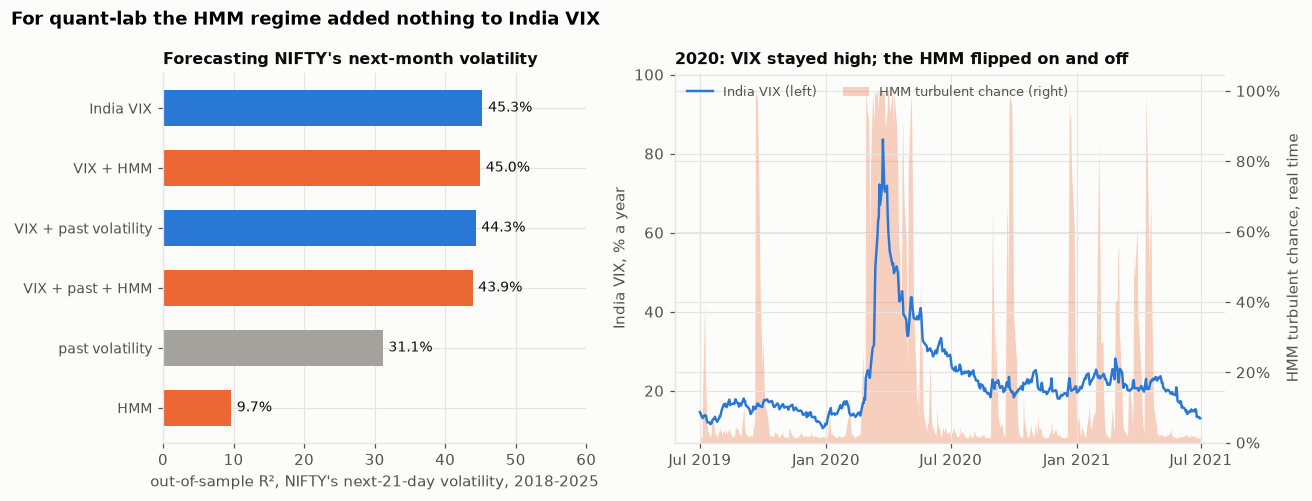
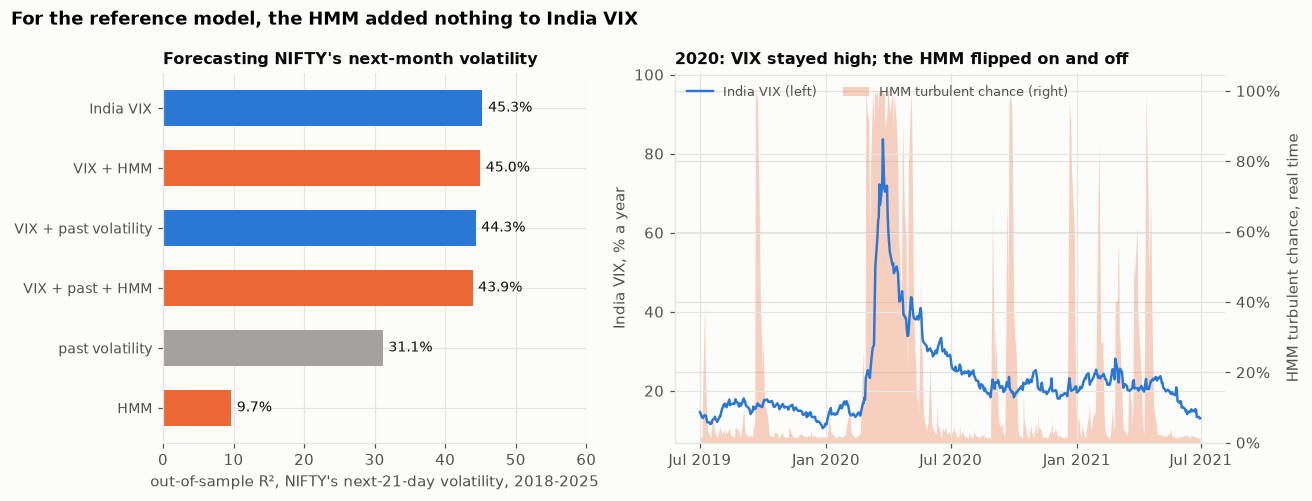
style: wrap lines lengthened by the reference-model wording

Changed region(s): [[0.0312, 0.0, 0.5, 0.0599]]

diff --git a/src/rh/reports.py b/src/rh/reports.py
@@ -588,7 +588,7 @@ def expanding_oos(df: pd.DataFrame, cols: list[str], h: int = 21, start: str = "
 
 
 def report_verdict(out_dir: Path) -> dict:
-    """Does the HMM add to the reference model's current regime input, India VIX? NIFTY's realised volatility
+    """Does the HMM add to the reference regime input, India VIX? NIFTY's realised volatility
     over the next 21 trading days (log), forecast from India VIX, NIFTY's past 21-day volatility
     and the HMM's real-time turbulent chance (finding 2, on IIMA's market) at each close, 2015-
     2025: out-of-sample R² from January 2018 (expanding least squares on outcomes already known,
@@ -663,7 +663,7 @@ def report_verdict(out_dir: Path) -> dict:
     ax.xaxis.set_major_locator(mdates.MonthLocator(bymonth=(1, 7)))
     ax.xaxis.set_major_formatter(mdates.DateFormatter("%b %Y"))
     ax.set_title("2020: VIX stayed high; the HMM flipped on and off", fontsize=10.5, loc="left")
-    fig.suptitle("For the reference model the HMM regime added nothing to India VIX", x=0.01, ha="left",
+    fig.suptitle("For the reference model, the HMM added nothing to India VIX", x=0.01, ha="left",
                  fontweight="bold")
     fig.tight_layout()
     plots.save(fig, out_dir, "verdict")
